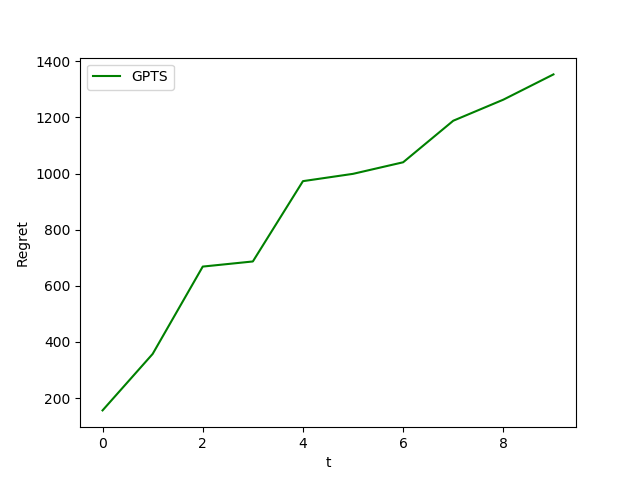
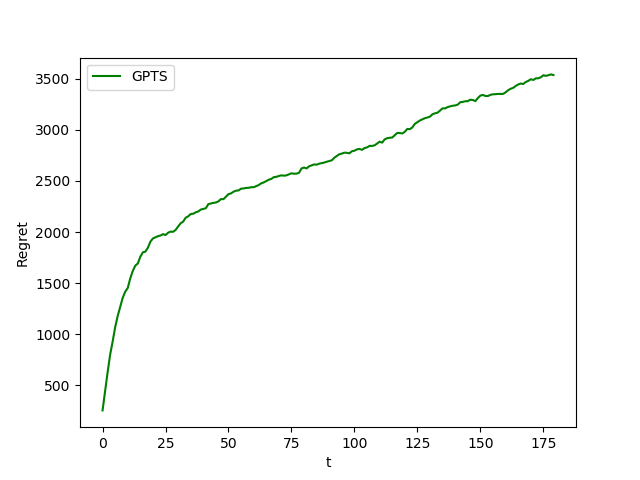
addio, davide 2

diff --git a/experiments/experiment_6_return_time.py b/experiments/experiment_6_return_time.py
@@ -71,6 +71,9 @@ class Experiment6_b():
             return_times = np.ones(1)
             # qui collezioniamo i tempi di ritorno di ogni cliente
 
+            ### mettiamo i round a vuoto dovuti al ritardo
+
+
             for t in range(0,self.T):
                  
                 pulled_price, price_value = ts_learner.pull_arm()
@@ -96,12 +99,14 @@ class Experiment6_b():
 
                 not_buyer = news-buyer
                 
-                ts_learner.update_more(pulled_price, pricing_rew, buyer, not_buyer)
-                gpts_learner.update(pulled_bid, news)
+                # RITARDO: per i primi 30 round non aggiorniamo nulla
+                if (t > 30):
+                    ts_learner.update_more(pulled_price, pricing_rew, buyer, not_buyer)
+                    gpts_learner.update(pulled_bid, news)
 
+                    return_times = np.append(return_times, new_returns)
+                
                 rewards_this.append(reward)
-
-                return_times = np.append(return_times, new_returns)
             
             self.rewards_full.append(rewards_this)
 
@@ -114,6 +119,10 @@ class Experiment6_b():
         plt.ylabel('Regret')
         plt.xlabel('t')
         plt.plot(np.cumsum(np.mean(self.opt - self.rewards_full, axis = 0)),'g')
+
+        ## dove inizia l'apprendimento?
+        plt.axvline(x=30, ymin=0, ymax=10000., color='r', linestyle=':', linewidth=3)
+
         plt.legend(["GPTS"])
         plt.savefig("img/experiments/experiment_6_return_time.png")
         

diff --git a/experiments/experiment_6.py b/experiments/experiment_6.py
@@ -37,7 +37,7 @@ class Experiment6():
         # return prob
         self.ret = self.cm.avg_ret
 
-        self.opt = np.max(self.means * (self.opt_pricing*self.ret - self.cm.mean_cc(self.bids)))
+        self.opt = np.max(self.means * (self.opt_pricing - self.cm.mean_cc(self.bids)))
         indice = np.argmax(self.means * (self.opt_pricing - self.cm.mean_cc(self.bids)))
 
         print(self.means[indice])
@@ -50,8 +50,8 @@ class Experiment6():
 
         self.ts_reward_per_experiments = []
 
-        self.T = 10 # number of days
-        self.n_experiments = 1
+        self.T = 180 # number of days
+        self.n_experiments = 10
 
     def run(self):
         self.rewards_full = []
@@ -72,6 +72,7 @@ class Experiment6():
                 pulled_price, price_value = ts_learner.pull_arm()
                 price = self.prices[pulled_price]
 
+                
                 pulled_bid = gpts_learner.pull_arm(price_value)
 
                 # problema: il braccio tirato dal learner di bidding

diff --git a/experiments/experiment_4.py b/experiments/experiment_4.py
@@ -58,7 +58,7 @@ class Experiment4():
                     
                     p_class, p_labels = pg.generate_person()
                 
-                    pulled_arm = context_gen.pull_arm(p_labels)
+                    pulled_arm, _ = context_gen.pull_arm(p_labels)
                     reward = env.round(pulled_arm, p_class)
 
                     current_opt = np.max(np.multiply(self.cm.conv_rates[p_class], self.prices))
